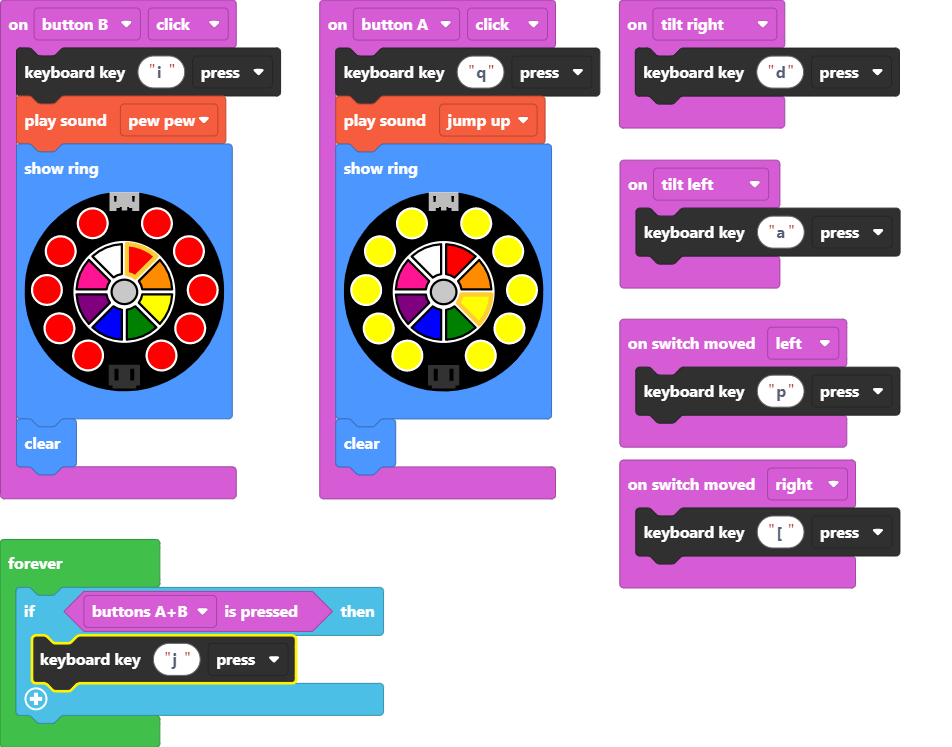
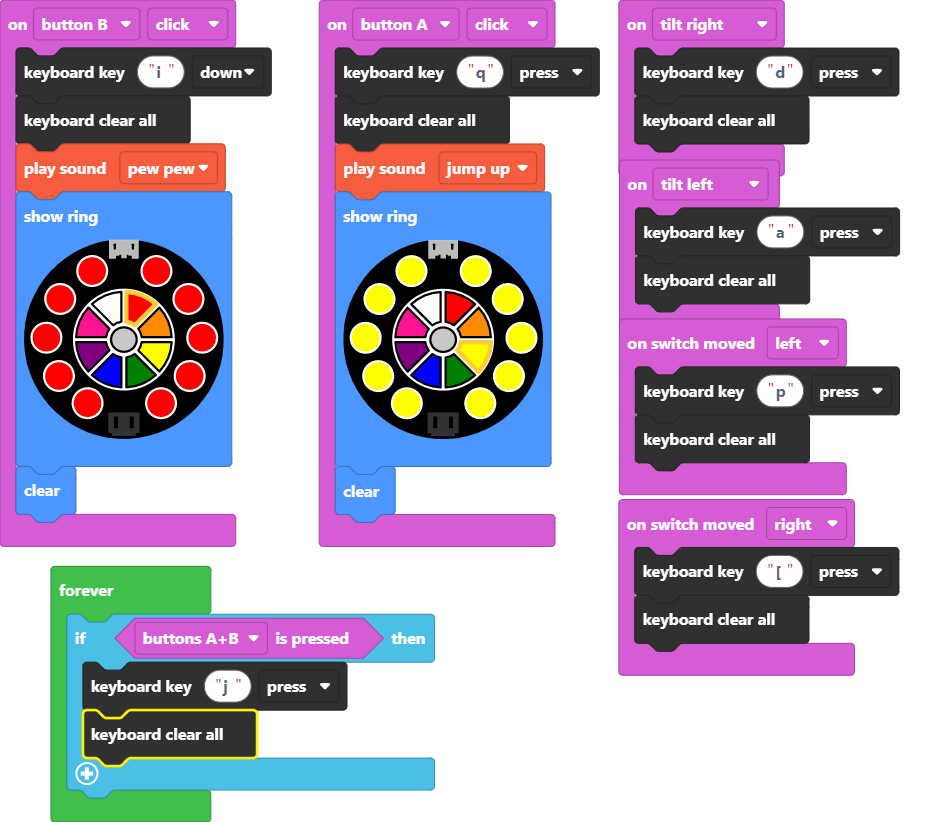
Update main.blocks, main.ts

diff --git a/main.ts b/main.ts
@@ -1,11 +1,14 @@
 input.onSwitchMoved(SwitchDirection.Right, function () {
     keyboard.key("[", KeyboardKeyEvent.Press)
+    keyboard.clearAllKeys()
 })
 input.onGesture(Gesture.TiltLeft, function () {
     keyboard.key("a", KeyboardKeyEvent.Press)
+    keyboard.clearAllKeys()
 })
 input.buttonA.onEvent(ButtonEvent.Click, function () {
     keyboard.key("q", KeyboardKeyEvent.Press)
+    keyboard.clearAllKeys()
     music.jumpUp.play()
     light.showRing(
     `yellow yellow yellow yellow yellow yellow yellow yellow yellow yellow`
@@ -14,9 +17,11 @@ input.buttonA.onEvent(ButtonEvent.Click, function () {
 })
 input.onGesture(Gesture.TiltRight, function () {
     keyboard.key("d", KeyboardKeyEvent.Press)
+    keyboard.clearAllKeys()
 })
 input.buttonB.onEvent(ButtonEvent.Click, function () {
-    keyboard.key("i", KeyboardKeyEvent.Press)
+    keyboard.key("i", KeyboardKeyEvent.Down)
+    keyboard.clearAllKeys()
     music.pewPew.play()
     light.showRing(
     `red red red red red red red red red red`
@@ -25,9 +30,11 @@ input.buttonB.onEvent(ButtonEvent.Click, function () {
 })
 input.onSwitchMoved(SwitchDirection.Left, function () {
     keyboard.key("p", KeyboardKeyEvent.Press)
+    keyboard.clearAllKeys()
 })
 forever(function () {
     if (input.buttonsAB.isPressed()) {
         keyboard.key("j", KeyboardKeyEvent.Press)
+        keyboard.clearAllKeys()
     }
 })
